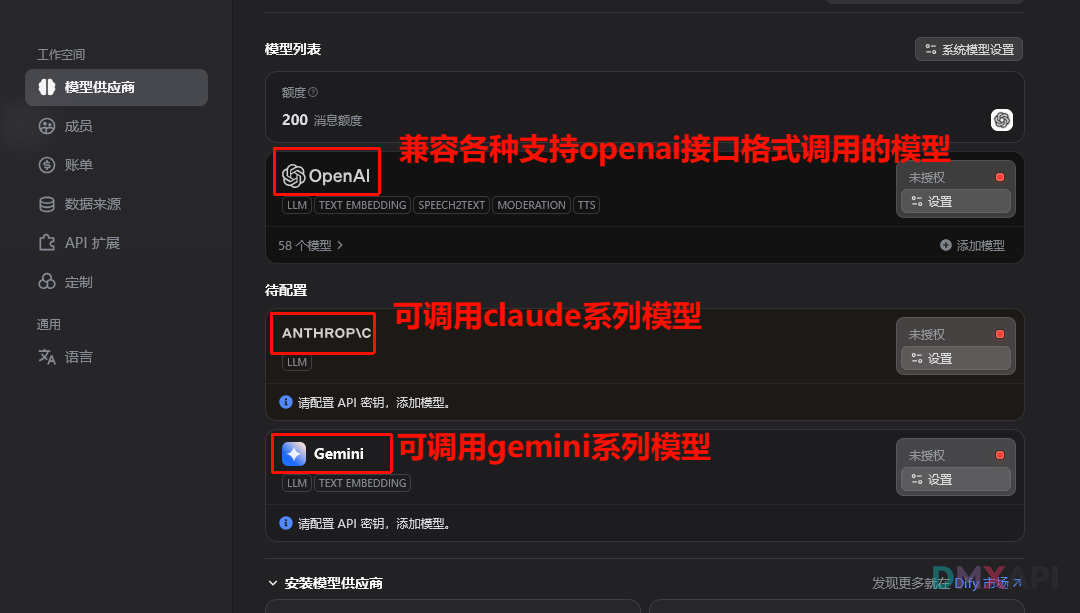
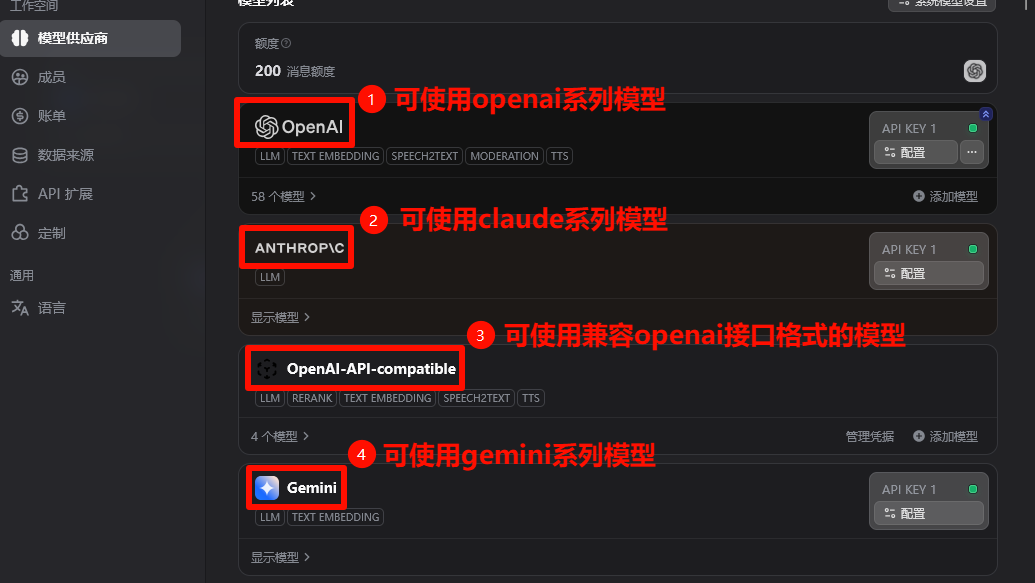
docs: 更新Dify文档，添加Open-API-compatible供应商配置和测试说明

diff --git a/dify.md b/dify.md
@@ -10,10 +10,11 @@
 
 ## 第二步  选择安装所需的供应商
 > 请注意选择DMXAPI支持的供应商
-> 目前共支持三个供应商:
-> - OpenAI(兼容各种支持openai接口格式调用的模型)
+> 目前共支持四种供应商:
+> - OpenAI
 > - Anthropic
 > - Gemini
+> - Open-API-compatible
 ### 1. 请在此处安装模型供应商
 ![Dify](img/dify02.png)
 ### 2. 各模型供应商的介绍
@@ -37,7 +38,15 @@
 #### 2. 进行相关配置
 ![Dify](img/dify09.png)
 
-
+### Open-API-compatible相应配置
+#### 1. 点击添加模型
+![Dify](img/dify16.png)
+#### 2. 点击添加新模型
+![Dify](img/dify17.png)
+#### 3. 进行相关配置填写
+![Dify](img/dify18.png)
+#### 4. 填写模型上下文长度
+![Dify](img/dify19.png)
 
 
 ## 第四步  简单的测试
@@ -66,6 +75,13 @@
 ![Dify](img/dify14.png)
 #### 2. 成功运行
 ![Dify](img/dify15.png)
+
+### Open-API-compatible测试
+> 使用`glm-4.7`模型进行测试
+#### 1. 输入"你好"
+![Dify](img/dify20.png)
+#### 2. 成功运行
+![Dify](img/dify21.png)
 
 
 <p align="center">
